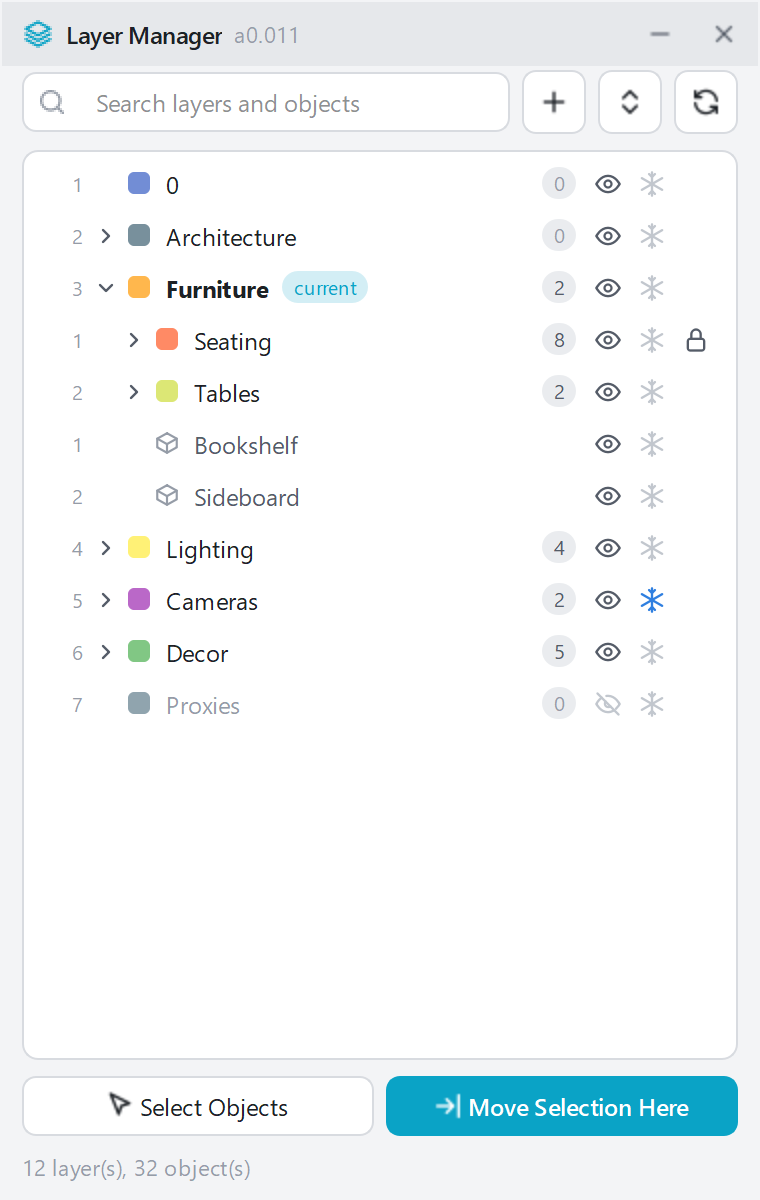
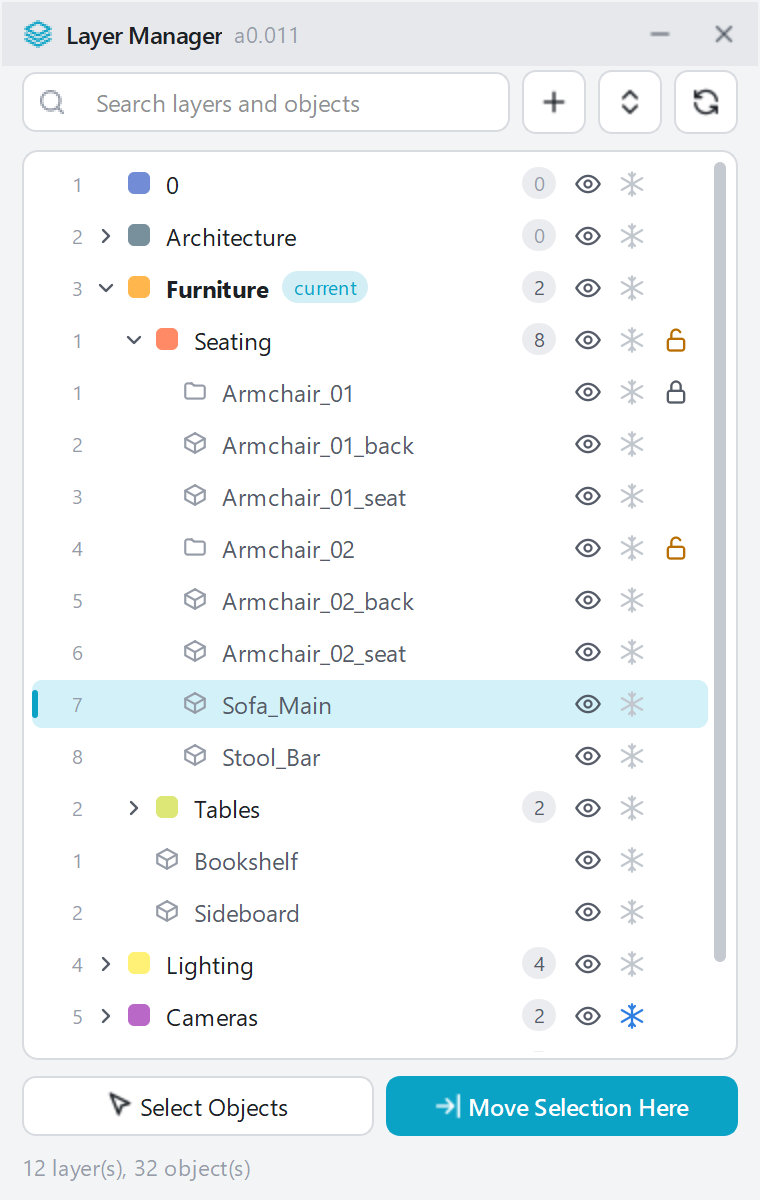
Render five distinct demo slides instead of eight near-identical frames

diff --git a/tools/shots/make_shots.py b/tools/shots/make_shots.py
@@ -5,8 +5,8 @@ scene, opens the real panel and saves it at 2x through QWidget.render, so
 nothing is captured from the screen. Output goes to %LM_OUT%:
 
   panel-dark.png, panel-light.png, search-dark.png, search-light.png
-  demo/<theme>-NN.png + demo/demo.json   (steps of the animated demo:
-                                          where the pointer goes, what it shows)
+  demo/<theme>-NN.png + demo/demo.json   (slides of the website carousel
+                                          and their captions)
 """
 import json
 import os
@@ -154,7 +154,7 @@ class Stage(object):
         panel.tree.setCurrentItem(None)
         panel._status_timer.stop()
         panel._show_summary()
-        pump(50)
+        pump(450)       # lets the search box finish fading its clear button out
 
     def click(self, row, zone):
         modifiers = QtCore.Qt.NoModifier
@@ -172,44 +172,56 @@ def demo(stage, theme):
     stage.reset()
     frames = []
 
-    def frame(caption, at=None, typed=None):
+    def quiet():
+        panel._status_timer.stop()
+        panel._show_summary()
+
+    def frame(caption):
         name = "demo/{}-{:02d}.png".format(theme, len(frames))
         save(panel, name)
-        frames.append({"image": os.path.basename(name), "caption": caption,
-                       "at": at, "typed": typed})
+        frames.append({"image": os.path.basename(name), "caption": caption})
 
+    # Each slide shows a different state, so no two look alike.
     frame("Every layer of the scene, nested layers included")
 
-    at = stage.point(stage.row("Furniture"), "chevron")
     stage.click(stage.row("Furniture"), "chevron")
-    frame("Open a layer to see what is inside", at)
-
-    at = stage.point(stage.row("Seating"), "chevron")
     stage.click(stage.row("Seating"), "chevron")
-    frame("Objects are listed with their own toggles", at)
-
-    at = stage.point(stage.row("Seating", "Sofa_Main"), "name")
+    stage.click(stage.row("Seating", "Armchair_02"), "lock")
     stage.click(stage.row("Seating", "Sofa_Main"), "name")
-    frame("Click an object to select it in the viewport", at)
+    quiet()
+    frame("Open a layer and click an object to select it")
 
-    at = stage.point(stage.row("Seating", "Armchair_01"), "lock")
-    stage.click(stage.row("Seating", "Armchair_01"), "lock")
-    frame("Open a group without leaving the panel", at)
+    stage.reset()
+    stage.click(stage.row("Architecture"), "chevron")
+    panel.isolate_layer("Architecture")
+    pump(250)
+    panel.tree.setCurrentItem(stage.row("Architecture"))
+    quiet()
+    frame("Alt+click the eye to isolate a layer")
 
-    at = stage.point(stage.row("Decor"), "eye")
-    stage.click(stage.row("Decor"), "eye")
-    frame("Hide a layer", at)
-
-    at = stage.point(stage.row("Lighting"), "freeze")
-    stage.click(stage.row("Lighting"), "freeze")
-    frame("Freeze another", at)
-
-    at = stage.widget_point(panel.search_input)
+    stage.reset()
     panel.search_input.setText("lamp")
-    pump(500)
-    panel._status_timer.stop()
-    panel._show_summary()
-    frame("Search finds layers and objects by name", at, "lamp")
+    pump(600)
+    quiet()
+    frame("Search finds layers and objects by name")
+
+    stage.reset()
+    stage.click(stage.row("Lighting"), "chevron")
+    stage.click(stage.row("Lighting"), "freeze")
+    stage.click(stage.row("Decor"), "eye")
+    row = stage.row("Decor")
+    panel.tree.setCurrentItem(row)
+    panel.tree.editItem(row, 0)
+    pump(250)
+    editor = panel.tree.findChild(QtWidgets.QLineEdit)
+    if editor is not None:
+        editor.setText("Decor and plants")
+        editor.end(False)
+    quiet()
+    frame("Hide, freeze and rename right in the list")
+    if editor is not None:
+        panel.tree.closeEditor(editor, QtWidgets.QAbstractItemDelegate.RevertModelCache)
+    pump(100)
     return frames
 
 
